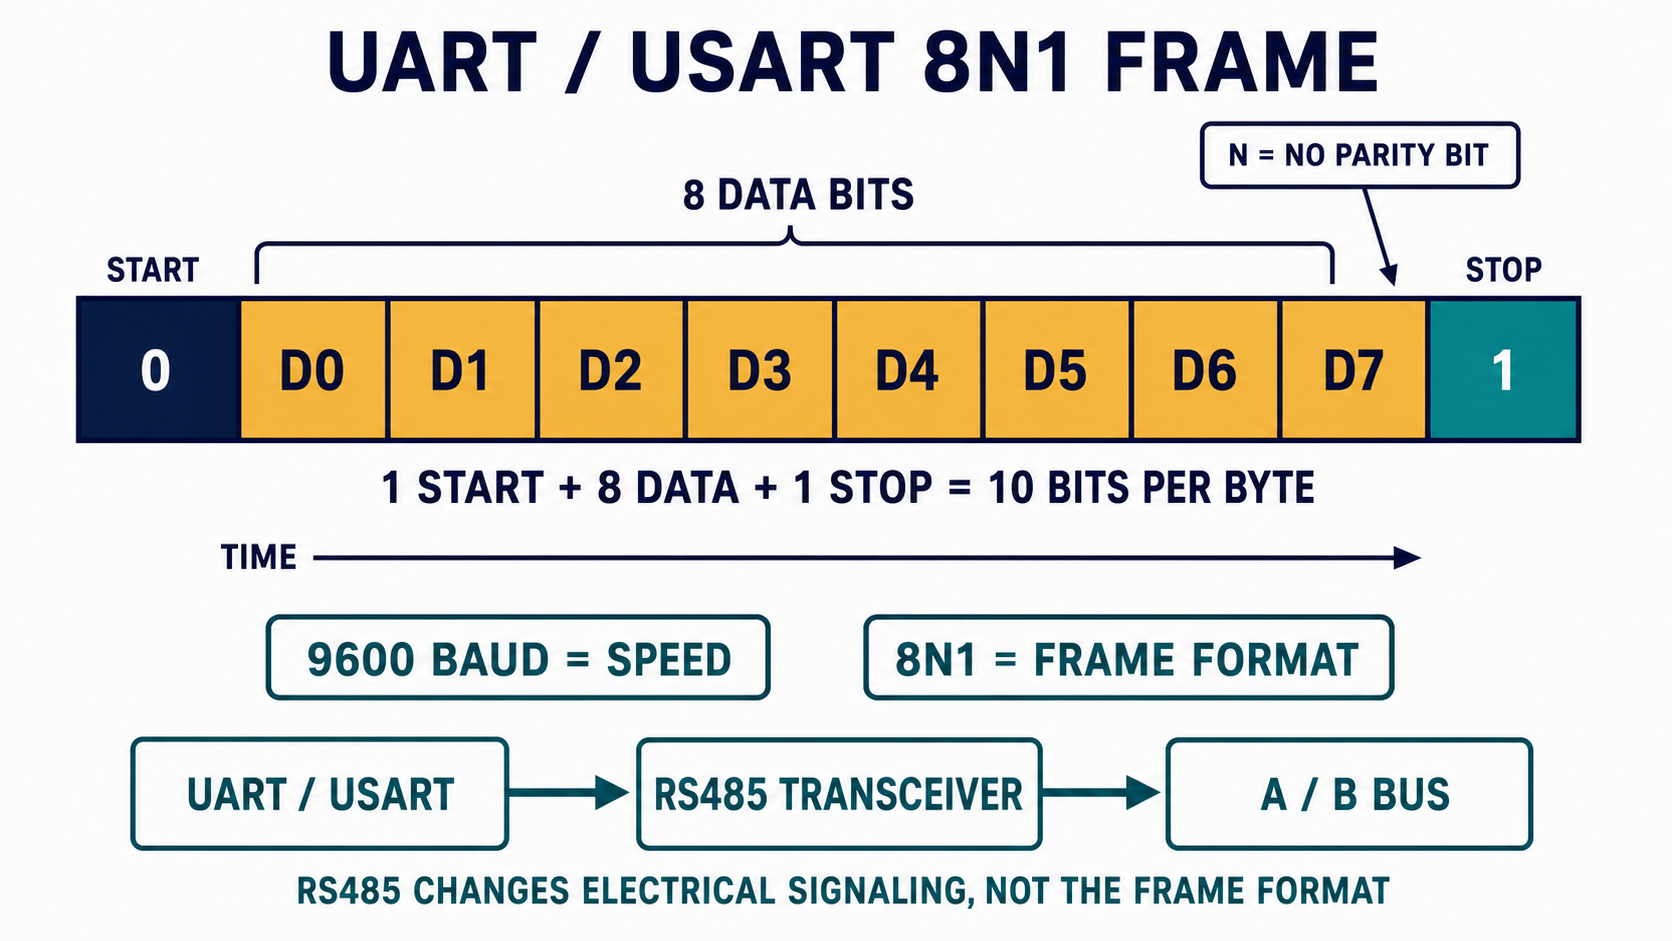
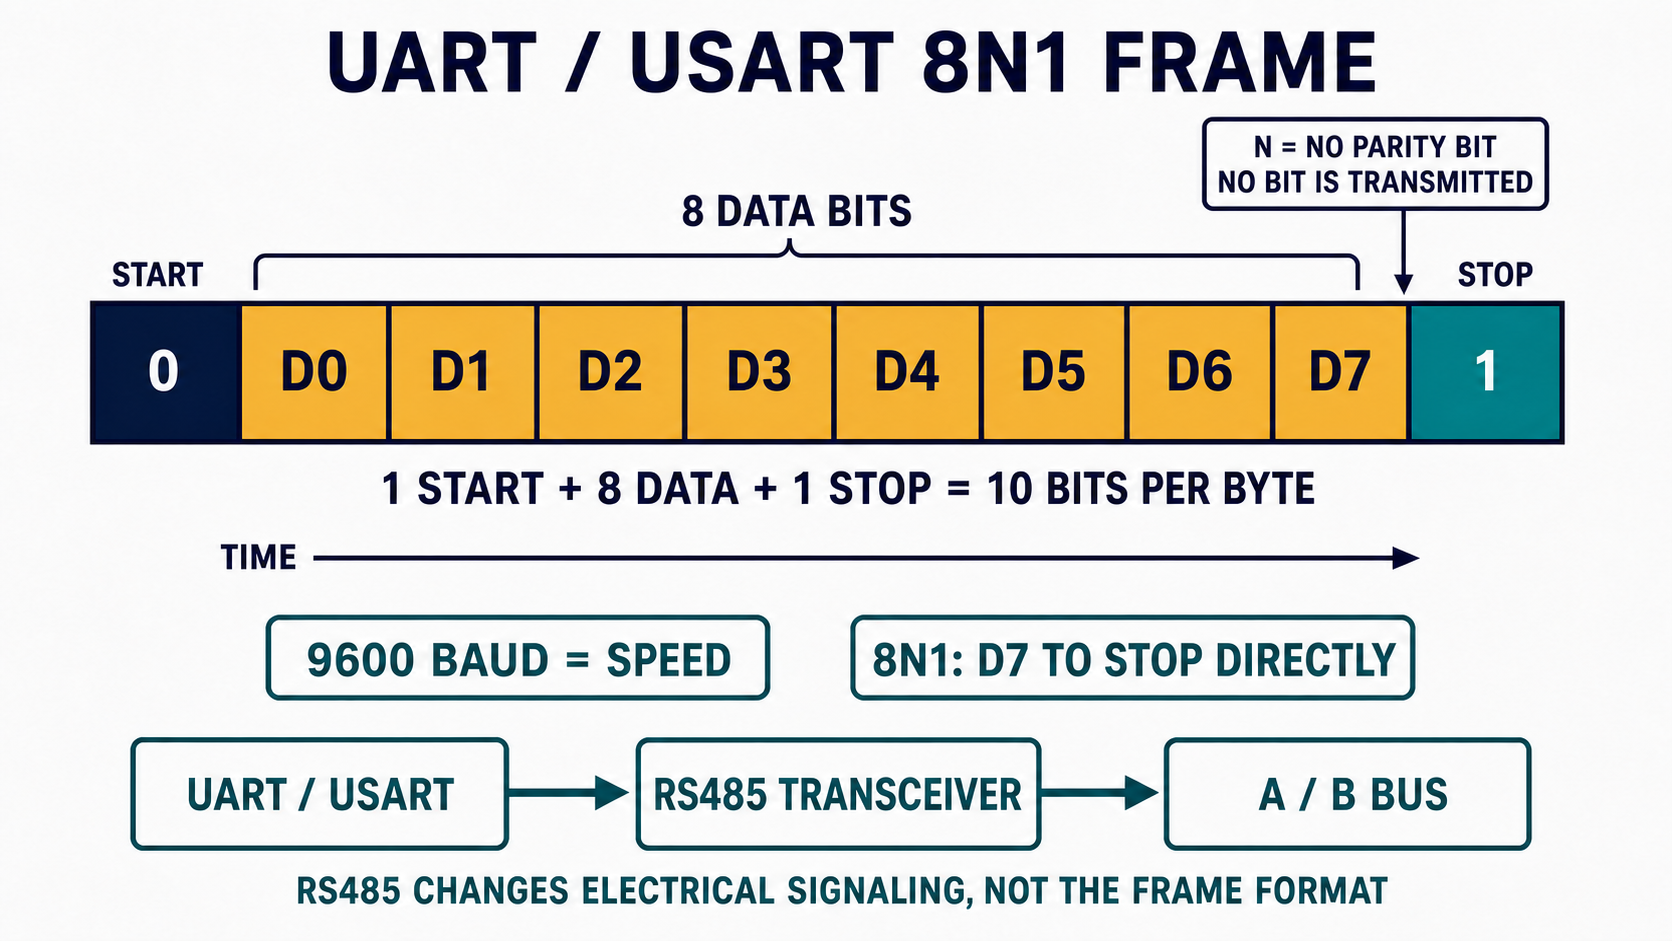
docs(ep02): clarify no-parity framing and correct 8N1 diagram

diff --git a/EP02_UART/README.md b/EP02_UART/README.md
@@ -399,7 +399,8 @@ Hardware ยังเพิ่ม Start bit ให้อัตโนมัติ
 มีกี่ bit และจบตรงไหน:
 
 ```text
-Start 1 bit + Data 8 bit + Parity 0 bit + Stop 1 bit
+Start 1 bit + Data 8 bit + Stop 1 bit = 10 transmitted bits
+Parity = None (no bit transmitted)
 ```
 
 แม้ชื่อ 8N1 จะไม่ได้เขียน Start bit ไว้ แต่ Hardware จะเพิ่มให้อัตโนมัติ
@@ -409,8 +410,25 @@ Start 1 bit + Data 8 bit + Parity 0 bit + Stop 1 bit
 | --- | ---: | --- |
 | Start | 1 bit | เปลี่ยนจาก Idle 1 เป็น 0 เพื่อแจ้งว่า Frame เริ่มแล้ว |
 | Data | 8 bit | ส่งค่าข้อมูล `D0` ถึง `D7` โดยเริ่มจาก `D0` |
-| Parity | 0 bit | `N` หมายถึงไม่เพิ่ม Parity bit |
+| Parity | ไม่มี bit ถูกส่ง | `N` หมายถึงไม่สร้างและไม่ส่ง Parity bit |
 | Stop | 1 bit | กลับเป็น Logic 1 เพื่อจบ Frame และเตรียม Frame ถัดไป |
+
+> **No Parity ไม่ได้หมายถึงส่ง Parity bit ที่มีค่า 0** แต่หมายถึงไม่มี
+> Parity bit และไม่มี Bit Time สำหรับ Parity อยู่ใน Frame เลย สำหรับ 8N1
+> หลังส่ง `D7` แล้ว Hardware จะส่ง Stop bit ต่อทันที
+
+เปรียบเทียบตำแหน่งของ Parity:
+
+```text
+8N1:  Start → D0 ... D7 → Stop
+                    ไม่มี Parity bit
+
+8E1:  Start → D0 ... D7 → Even Parity → Stop
+8O1:  Start → D0 ... D7 → Odd Parity  → Stop
+```
+
+Parity bit จึงอยู่ระหว่าง `D7` กับ Stop bit เฉพาะเมื่อเลือก Even หรือ Odd
+Parity เท่านั้น
 
 ดังนั้น `9600` และ `8N1` จึงตอบคนละคำถาม:
 
@@ -898,6 +916,7 @@ Arduino API เหมาะเมื่อเน้นพัฒนา Applicatio
 - [Register พื้นฐาน](../docs/register-basics.md) — ทบทวน Register และ Bit Mask
 - [Arduino Uno Pin Mapping](../docs/arduino-uno-pin-mapping.md) — แปลง D0/D1/D13 เป็นขา MCU
 - [ATmega328P Datasheet](https://www.microchip.com/en-us/product/atmega328p) — USART0 Register และ Baud Rate
+- [ATmega328P USART Frame Formats — Section 19.4](https://ww1.microchip.com/downloads/en/DeviceDoc/Atmel-7810-Automotive-Microcontrollers-ATmega328P_Datasheet.pdf) — Parity เป็น Optional และอยู่ก่อน Stop เฉพาะเมื่อเปิดใช้
 - [picocom Manual](https://manpages.debian.org/testing/picocom/picocom.1.en.html) — Local Echo และ Character Mapping
 - [MODBUS Serial Line Protocol and Implementation Guide](https://www.modbus.org/docs/Modbus_over_serial_line_V1_02.pdf) — การวาง Modbus Serial ที่ L2 และ RS485 ที่ L1
 - [MODBUS Application Protocol Specification](https://modbus.org/docs/Modbus_Application_Protocol_V1_1b3.pdf) — Modbus Application Protocol ที่ L7
